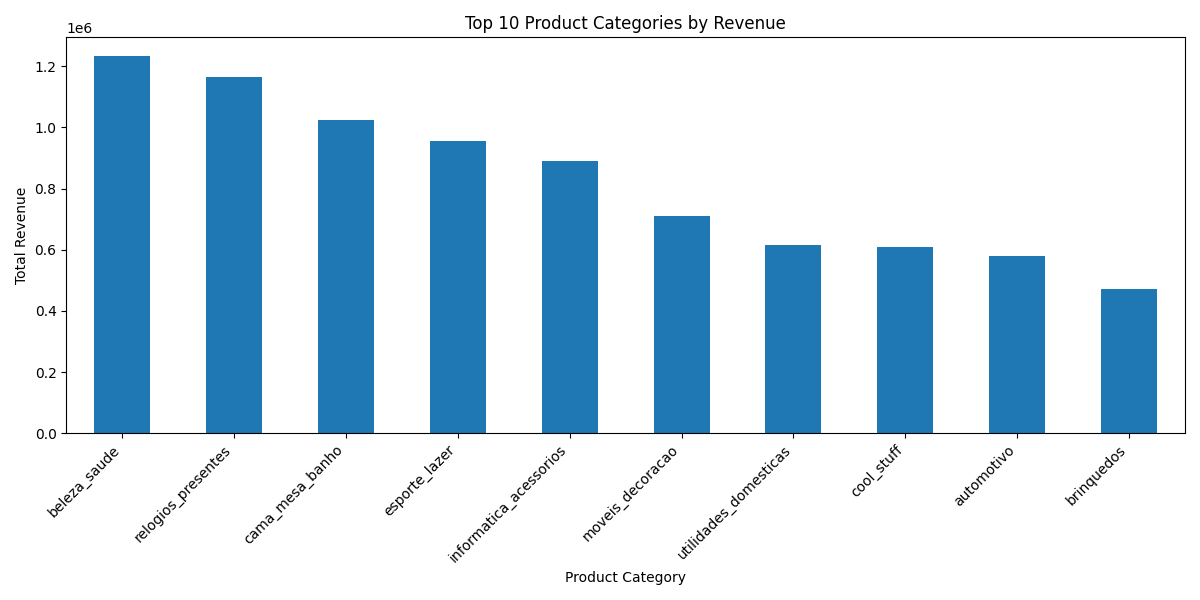
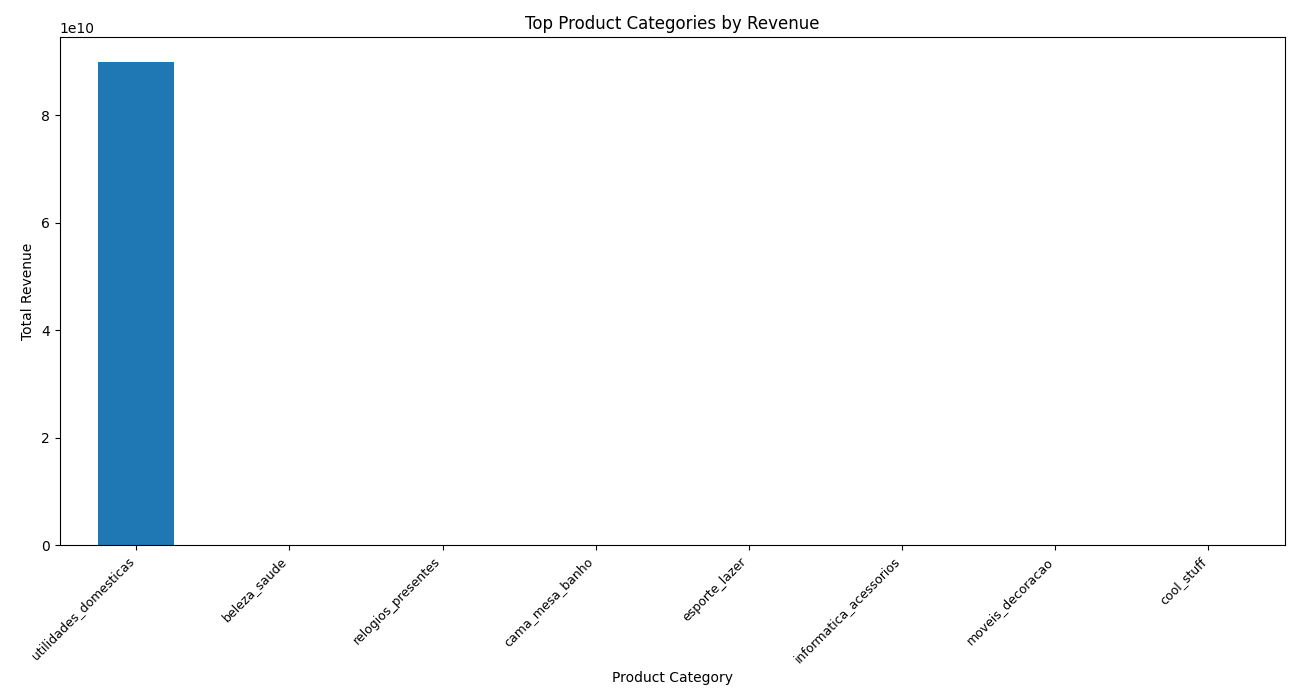
updated assignment 2

diff --git a/main.py b/main.py
@@ -6,6 +6,7 @@ import os
 from openpyxl import load_workbook
 from openpyxl.styles import PatternFill
 from openpyxl.formatting.rule import ColorScaleRule
+import re
 
 # ==============================
 # Database Config
@@ -40,125 +41,151 @@ def execute_non_query(query, params=None):
         conn.commit()
 
 # ==============================
+# Utility: Load Assignment 2 Queries from queries.sql
+# ==============================
+def load_assignment2_queries(path="queries.sql"):
+    """Parse Assignment 2 queries (Q1..Q7) from queries.sql and normalize schema names.
+
+    Returns a dict like {"Q1": sql, ..., "Q7": sql}
+    """
+    if not os.path.exists(path):
+        return {}
+
+    with open(path, "r", encoding="utf-8") as f:
+        text = f.read()
+
+    # Extract the section after ASSIGNMENT 2 header if present
+    assign2_split = re.split(r"-+\s*ASSIGNMENT\s*2\s*QUERIES.*?\n", text, flags=re.IGNORECASE | re.DOTALL)
+    text_to_parse = assign2_split[-1] if len(assign2_split) > 1 else text
+
+    # Split by lines that look like -- Qn:
+    parts = re.split(r"(^--\s*Q(\d+)\s*:[^\n]*$)", text_to_parse, flags=re.MULTILINE)
+    queries = {}
+    # parts structure with capturing groups: [pre, header1, num1, body1, header2, num2, body2, ...]
+    for idx in range(1, len(parts), 3):
+        header = parts[idx]
+        num = parts[idx + 1] if (idx + 1) < len(parts) else None
+        body = parts[idx + 2] if (idx + 2) < len(parts) else ""
+
+        match = re.match(r"^--\s*Q(\d+)\s*:", header)
+        key = f"Q{match.group(1)}" if match else (f"Q{num}" if num else None)
+        if not key:
+            continue
+
+        sql = body.strip()
+        # Stop at next header if any remnants included
+        sql = re.split(r"^--\s*Q\d+\s*:", sql, flags=re.MULTILINE)[0].strip()
+
+        # Normalize schema differences
+        sql = sql.replace("order_reviews", "reviews")
+        sql = sql.replace("p.product_category", "p.product_category_name")
+
+        queries[key] = sql
+
+    return queries
+
+# ==============================
 # Part 1: Charts
 # ==============================
 def create_charts():
     charts_info = []
+    queries = load_assignment2_queries()
 
-    # 1. Pie Chart – Payment type distribution (based on actual orders)
-    q1 = """
-         SELECT p.payment_type, COUNT(*) AS total_payments
-         FROM payments p
-                  JOIN orders o ON p.order_id = o.order_id
-                  JOIN customers c ON o.customer_id = c.customer_id
-         GROUP BY p.payment_type; \
-         """
-    df1 = get_dataframe(q1)
-    df1.set_index("payment_type").plot.pie(
-        y="total_payments", autopct='%1.1f%%', legend=False, figsize=(6,6))
-    plt.title("Distribution of Payment Types")
-    plt.ylabel("")
-    file1 = f"{CHARTS_DIR}/payment_pie.png"
-    plt.savefig(file1)
-    plt.close()
-    charts_info.append((len(df1), "Pie Chart", "Distribution of payment types"))
+    # 1. Pie Chart – Top states by number of customers (Q1)
+    q1 = queries.get("Q1")
+    if q1:
+        df1 = get_dataframe(q1)
+        value_col = "num_customers" if "num_customers" in df1.columns else df1.columns[-1]
+        label_col = "customer_state" if "customer_state" in df1.columns else df1.columns[0]
+        df1.set_index(label_col).plot.pie(y=value_col, autopct='%1.1f%%', legend=False, figsize=(7, 7))
+        plt.title("Distribution of Customers by State")
+        plt.ylabel("")
+        file1 = f"{CHARTS_DIR}/customers_state_pie.png"
+        plt.savefig(file1)
+        plt.close()
+        charts_info.append((len(df1), "Pie Chart", "Distribution of customers by state"))
 
-    # 2. Bar Chart – Top 10 categories by revenue (delivered orders)
-    q2 = """
-         SELECT p.product_category_name, SUM(oi.price) AS total_revenue
-         FROM order_items oi
-                  JOIN products p ON oi.product_id = p.product_id
-                  JOIN orders o ON oi.order_id = o.order_id
-         WHERE o.order_status = 'delivered'
-         GROUP BY p.product_category_name
-         ORDER BY total_revenue DESC
-             LIMIT 10; \
-         """
-    df2 = get_dataframe(q2)
-    df2.plot.bar(x="product_category_name", y="total_revenue", legend=False, figsize=(12, 6))
-    plt.title("Top 10 Product Categories by Revenue")
-    plt.xlabel("Product Category")
-    plt.ylabel("Total Revenue")
-    plt.xticks(rotation=45, ha="right")
-    plt.tight_layout()
-    file2 = f"{CHARTS_DIR}/top_products_bar.png"
-    plt.savefig(file2)
-    plt.close()
-    charts_info.append((len(df2), "Bar Chart", "Top 10 product categories by revenue"))
+    # 2. Bar Chart – Top product categories by revenue (Q2)
+    q2 = queries.get("Q2")
+    if q2:
+        df2 = get_dataframe(q2)
+        cat_col = "product_category_name" if "product_category_name" in df2.columns else ("product_category" if "product_category" in df2.columns else df2.columns[0])
+        ax2 = df2.plot.bar(x=cat_col, y="total_revenue", legend=False, figsize=(13, 7))
+        plt.title("Top Product Categories by Revenue")
+        plt.xlabel("Product Category")
+        plt.ylabel("Total Revenue")
+        plt.xticks(rotation=45, ha="right", fontsize=9)
+        plt.gcf().subplots_adjust(bottom=0.25)
+        plt.tight_layout()
+        file2 = f"{CHARTS_DIR}/top_products_bar.png"
+        plt.savefig(file2)
+        plt.close()
+        charts_info.append((len(df2), "Bar Chart", "Top product categories by revenue"))
 
-    # 3. Horizontal Bar – Orders by state (paid orders)
-    q3 = """
-         SELECT c.customer_state, COUNT(DISTINCT o.order_id) AS total_orders
-         FROM orders o
-                  JOIN customers c ON o.customer_id = c.customer_id
-                  JOIN payments p ON o.order_id = p.order_id
-         GROUP BY c.customer_state
-         ORDER BY total_orders DESC; \
-         """
-    df3 = get_dataframe(q3)
-    df3.plot.barh(x="customer_state", y="total_orders", legend=False)
-    plt.title("Orders by State")
-    plt.xlabel("Total Orders")
-    plt.ylabel("Customer State")
-    file3 = f"{CHARTS_DIR}/orders_state_barh.png"
-    plt.savefig(file3)
-    plt.close()
-    charts_info.append((len(df3), "Horizontal Bar Chart", "Orders count by state"))
+    # 3. Line Chart – Monthly revenue trend (Q3)
+    q3 = queries.get("Q3")
+    if q3:
+        df3 = get_dataframe(q3)
+        time_col = "month" if "month" in df3.columns else df3.columns[0]
+        y_col = "monthly_revenue" if "monthly_revenue" in df3.columns else df3.columns[-1]
+        ax3 = df3.plot.line(x=time_col, y=y_col, marker="o", figsize=(13, 6))
+        plt.title("Monthly Revenue Trend")
+        plt.xlabel("Month")
+        plt.ylabel("Revenue")
+        plt.xticks(rotation=45, ha="right")
+        plt.gcf().subplots_adjust(bottom=0.25)
+        plt.tight_layout()
+        file3 = f"{CHARTS_DIR}/monthly_revenue_line.png"
+        plt.savefig(file3)
+        plt.close()
+        charts_info.append((len(df3), "Line Chart", "Monthly revenue trend"))
 
-    # 4. Line Chart – Monthly revenue trend (delivered orders)
-    q4 = """
-         SELECT DATE_TRUNC('month', o.order_purchase_timestamp) AS month,
-                SUM(oi.price) AS monthly_revenue
-         FROM orders o
-                  JOIN order_items oi ON o.order_id = oi.order_id
-         WHERE o.order_status = 'delivered'
-         GROUP BY month
-         ORDER BY month; \
-         """
-    df4 = get_dataframe(q4)
-    df4.plot.line(x="month", y="monthly_revenue", marker="o")
-    plt.title("Monthly Revenue (Delivered Orders)")
-    plt.xlabel("Month")
-    plt.ylabel("Revenue")
-    file4 = f"{CHARTS_DIR}/orders_per_month.png"
-    plt.savefig(file4)
-    plt.close()
-    charts_info.append((len(df4), "Line Chart", "Orders trend per month"))
+    # 4. Horizontal Bar – Top sellers by revenue (Q4)
+    q4 = queries.get("Q4")
+    if q4:
+        df4 = get_dataframe(q4)
+        seller_col = "seller_id" if "seller_id" in df4.columns else df4.columns[0]
+        df4.plot.barh(x=seller_col, y="total_revenue", legend=False, figsize=(12, 7))
+        plt.title("Top Sellers by Revenue")
+        plt.xlabel("Total Revenue")
+        plt.ylabel("Seller")
+        plt.tight_layout()
+        file4 = f"{CHARTS_DIR}/top_sellers_barh.png"
+        plt.savefig(file4)
+        plt.close()
+        charts_info.append((len(df4), "Horizontal Bar Chart", "Top sellers by revenue"))
 
-    # 5. Histogram – Review score distribution (all reviews, keep rows via LEFT JOIN)
-    q5 = """
-         SELECT CAST(r.review_score AS INTEGER) AS review_score
-         FROM reviews r
-                  LEFT JOIN orders o ON r.order_id = o.order_id
-         WHERE r.review_score IS NOT NULL; \
-         """
-    df5 = get_dataframe(q5)
-    df5["review_score"] = pd.to_numeric(df5["review_score"], errors="coerce")
-    df5["review_score"].plot.hist(bins=5, rwidth=0.9)
-    plt.title("Distribution of Review Scores")
-    plt.xlabel("Review Score")
-    plt.ylabel("Frequency")
-    file5 = f"{CHARTS_DIR}/review_scores_histogram.png"
-    plt.savefig(file5)
-    plt.close()
-    charts_info.append((len(df5), "Histogram", "Distribution of review scores"))
+    # 5. Histogram – Distribution of review scores (Q5)
+    q5 = queries.get("Q5")
+    if q5:
+        df5 = get_dataframe(q5)
+        if "review_score" in df5.columns:
+            df5["review_score"] = pd.to_numeric(df5["review_score"], errors="coerce")
+            df5["review_score"].plot.hist(bins=5, rwidth=0.9, figsize=(10, 6))
+            plt.title("Distribution of Review Scores")
+            plt.xlabel("Review Score")
+            plt.ylabel("Frequency")
+            plt.tight_layout()
+            file5 = f"{CHARTS_DIR}/review_scores_histogram.png"
+            plt.savefig(file5)
+            plt.close()
+            charts_info.append((len(df5), "Histogram", "Distribution of review scores"))
 
-    # 6. Scatter Plot – Product price vs freight cost (guaranteed available data)
-    q6 = """
-         SELECT oi.price, oi.freight_value
-         FROM order_items oi
-                  JOIN orders o ON oi.order_id = o.order_id
-         WHERE oi.price > 0 AND oi.freight_value > 0; \
-         """
-    df6 = get_dataframe(q6)
-    df6.plot.scatter(x="price", y="freight_value", alpha=0.4)
-    plt.title("Product Price vs Freight Cost")
-    plt.xlabel("Price")
-    plt.ylabel("Freight Cost")
-    file6 = f"{CHARTS_DIR}/price_vs_freight.png"
-    plt.savefig(file6)
-    plt.close()
-    charts_info.append((len(df6), "Scatter Plot", "Relationship between product price and freight cost"))
+    # 6. Scatter Plot – Delivery time vs review score (Q6)
+    q6 = queries.get("Q6")
+    if q6:
+        df6 = get_dataframe(q6)
+        x_col = "delivery_days" if "delivery_days" in df6.columns else df6.columns[0]
+        y_col = "review_score" if "review_score" in df6.columns else df6.columns[-1]
+        df6.plot.scatter(x=x_col, y=y_col, alpha=0.4, figsize=(10, 6))
+        plt.title("Delivery Days vs Review Score")
+        plt.xlabel("Delivery Days")
+        plt.ylabel("Review Score")
+        plt.tight_layout()
+        file6 = f"{CHARTS_DIR}/delivery_vs_review_scatter.png"
+        plt.savefig(file6)
+        plt.close()
+        charts_info.append((len(df6), "Scatter Plot", "Delivery time vs review score"))
 
     # Console report
     for rows, gtype, desc in charts_info:
@@ -214,18 +241,23 @@ def seed_reviews_if_empty(max_inserts=20):
 # Part 2: Time Slider (Plotly)
 # ==============================
 def time_slider_chart():
-    q = """
-        SELECT DATE_TRUNC('month', order_purchase_timestamp) AS month,
-               COUNT(*) AS total_orders
-        FROM orders
-        GROUP BY month
-        ORDER BY month; \
-        """
+    queries = load_assignment2_queries()
+    q = queries.get("Q7")
+    if not q:
+        # Fallback if Q7 not present
+        q = (
+            "SELECT DATE_TRUNC('month', order_purchase_timestamp) AS month, "
+            "COUNT(*) AS total_orders FROM orders GROUP BY month ORDER BY month;"
+        )
     df = get_dataframe(q)
+    # Ensure we have a time column named month
+    if "month" not in df.columns:
+        # Use first datetime-like column if exists
+        df.rename(columns={df.columns[0]: "month"}, inplace=True)
     df["month"] = pd.to_datetime(df["month"])
     df["year"] = df["month"].dt.year
 
-    fig = px.bar(df, x="month", y="total_orders",
+    fig = px.bar(df, x="month", y=df.columns[1],
                  animation_frame="year",
                  title="Orders Over Time (Interactive)")
     fig.show()
